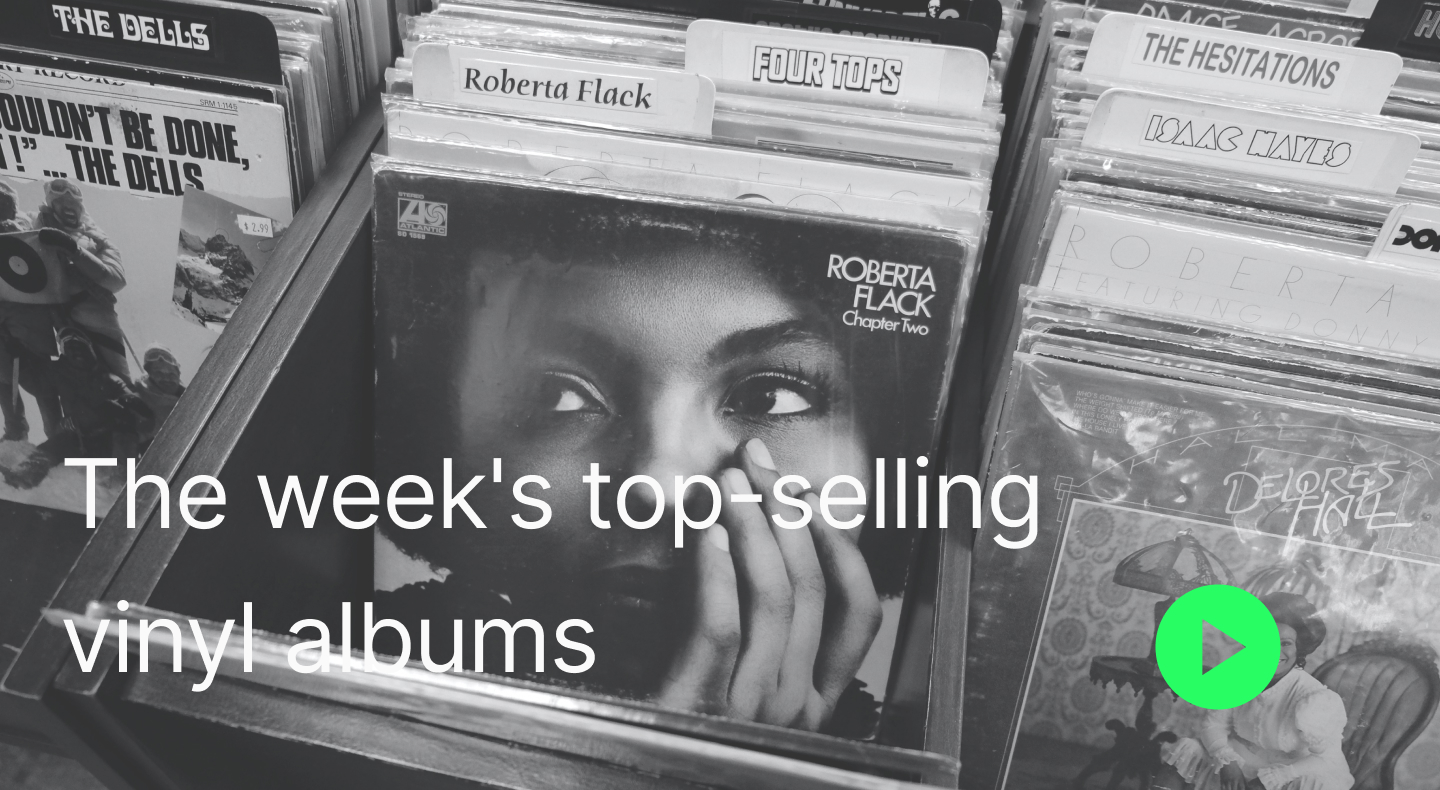
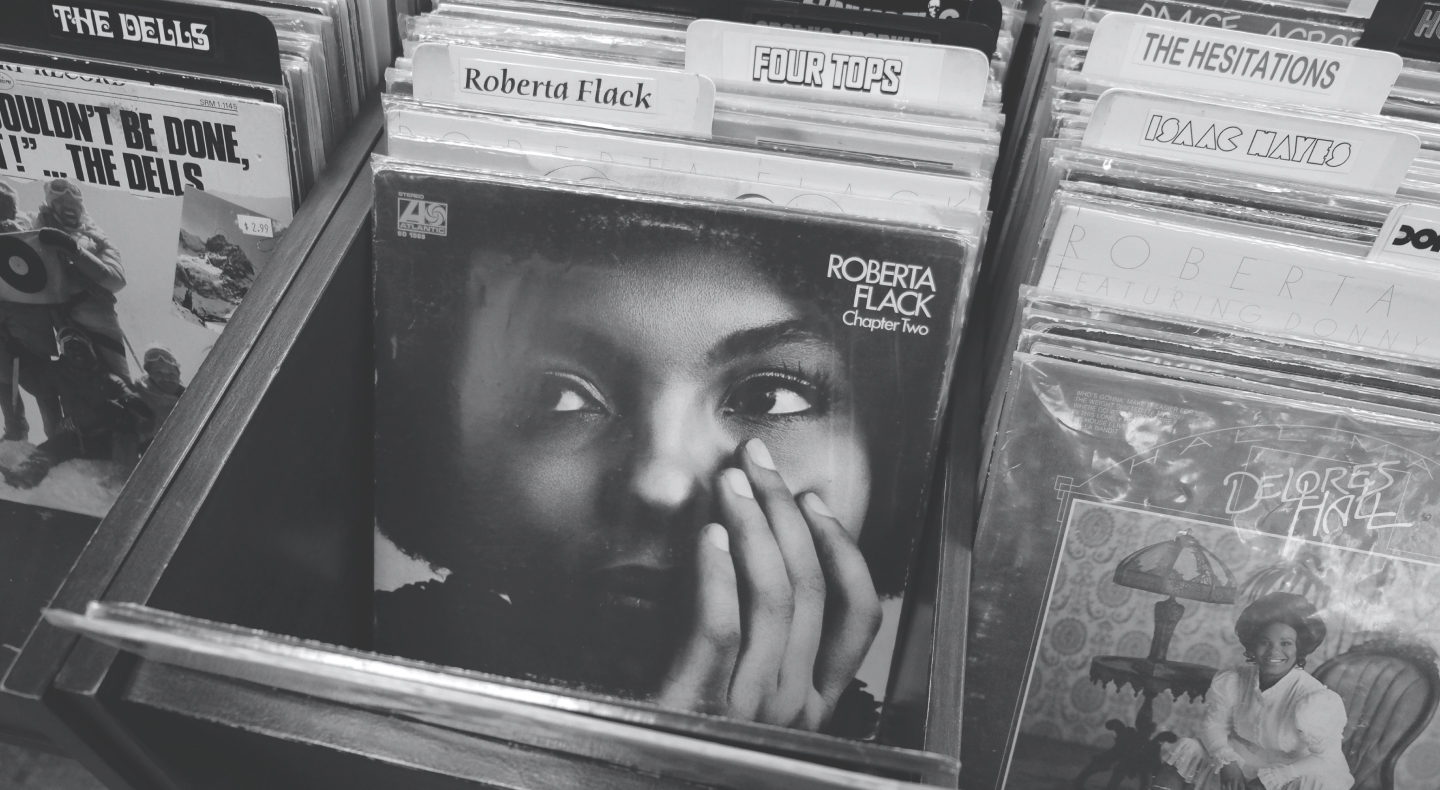
block, footer, footer ligal

Changed region(s): [[0.0312, 0.5772, 0.7188, 0.6987], [0.0312, 0.7595, 0.4375, 0.881], [0.7812, 0.7291, 0.9062, 0.9114]]

diff --git a/index.html b/index.html
@@ -28,7 +28,6 @@
         }
 
     </style>
-
 </head>
 <body>
     <header>
@@ -49,11 +48,11 @@
         </div>
     </header>
 
-    <section class="block-1">
-        <!--<div class="new-releases-text">
-            <h1>New Releases</h1>
-            <h3>Shop All</h3>
-        </div>-зробити заголовок і кнопочку-->
+    <section id="new-releases">
+        <div class="container text-center">
+            <h1>New Releases</h1> 
+        </div>
+        <a href="#!" class="btn-blue">Shop All</a>
     </section>
 
     <marquee class="running-line">
@@ -62,6 +61,86 @@
         <img src="images/thelifer2.png" alt="the-lifer">
     </marquee>
 
+    <!-- <section class="featured-products"> -->
 
+    <section id="services">
+        <div class="services">
+            <div class="service-icons">
+                <img src="images/shipping.svg" alt="free-shipping" class="s-icons" width="70" height="70">
+                <div class="text-start">
+                    <h3>Free shipping</h3>
+                    <p>Free delivery on order over $60.</p>
+                </div>
+            </div>
+
+            <div class="service-icons">
+                <img src="images/question.svg" alt="questions" width="60" height="60">
+                <div class="text-start">
+                    <h3>Questions</h3>
+                    <p><span style="color: #212AFF;"><a href="#" style="color: #212AFF;">Email</a></span> us or <span style="color: #212AFF;"><a href="#" style="color: #212AFF;">call</a></span> and we will help you.</p>
+                </div>
+            </div>
+
+            <div class="service-icons">
+                <img src="images/search.svg" alt="search" width="60" height="60">
+                <div class="text-start">
+                    <h3>Can´t find?</h3>
+                    <p>You have the opportunity to make individual order.</p>
+                </div>
+            </div>
+        </div>
+    </div>
+    </section>
+
+    <!-- page footer  -->
+    <footer>
+        <div class="page-footer">
+            <section class="footer-main">
+                <div class="footer-main-item">
+                    <h3 class="footer-title">Quick Links</h3>
+                    <ul>
+                        <li><a href="#">Search</a></li>
+                        <li><a href="#">Blog</a></li>
+                        <li><a href="#">Shop</a></li>
+                    </ul>
+                </div>
+
+                <div class="footer-main-item">
+                    <h3 class="footer-title">Help and Support</h3>
+                    <ul>
+                        <li><a href="">Delivery & Returns</a></li>
+                        <li><a href="">Contacts</a></li>
+                        <li><a href="">Tracking</a></li>
+                    </ul>
+                </div>
+
+                <div class="footer-main-item">
+                    <h3 class="footer-title">Join In</h3>
+                    <ul>
+                        <li><a href="">Sign Up</a></li>
+                        <li><a href="">Log In</a></li>
+                        <li><a href="">Wishlist</a></li>
+                    </ul>
+                </div>
+
+                <div class="footer-main-item">
+                    <h3 class="footer-title">Follow Us</h3>
+                    <ul class="footer-social-list">
+                        <li><a href="#"><i class="fab fa-facebook"></i></a></li>
+                        <li><a href="#"><i class="fab fa-twitter"></i></a></li>
+                        <li><a href="#"><i class="fa-brands fa-square-instagram"></i></a></li>
+                        <li><a href="#"><i class="fab fa-youtube"></i></a></li>
+                    </ul>
+                </div>
+            </section>
+
+            <section class="footer-ligal">
+                <ul class="footer-ligal-list">
+                    <a href="#">Terms &amp; Conditions</a>
+                    <a href="#">Privacy Policy</a> 
+                    <a href="#">&copy; 2024 Copyright The Lifer Inc.</a>
+                </ul>
+            </section>
+    </footer>
 </body>
 </html>

diff --git a/css/footer.css b/css/footer.css
@@ -1,0 +1,61 @@
+/* footer */
+
+.page-footer {
+    --footer-background-color: #fafafa;
+    --footer-ligal-background-color: #212AFF;
+
+    --footer-a-color: #171b8f;
+    --footer-title-color: #161616;
+    --footer-a-font-size: 1rem;
+    --footer-font-family: 'Inter', sans-serif;
+    
+}
+
+& .footer-main {
+    background-color: var(--footer-background-color);
+    display: flex;
+    flex-wrap: wrap;
+    justify-content: space-evenly;
+    padding: 1.5rem 2rem;
+
+    & .footer-main-item {
+        > ul > li > a {
+            color: var(--footer-a-color);
+            font-family: var(--footer-font-family);
+            font-size: var(--footer-a-font-size);
+            font-weight: 500;
+            text-decoration: none;
+            list-style: none;
+        }
+}
+}
+
+h3 {
+    color: var(--footer-title-color);
+    font-family: var(--footer-font-family);
+    font-weight: 700;
+}
+
+& .footer-social-list {
+    background-color: var(--footer-background-color);
+    display: flex;
+    justify-content: center;
+    text-align: center;
+
+    > li {
+    display: inline-block;
+    > a > i {
+        font-size: 1.25rem;
+        color: var(--footer-a-color);
+        margin-right: 1rem;
+    }
+}
+}
+
+.footer-ligal-list {
+    > a {
+        color: #fafafa;
+        text-decoration: none;
+        margin-right: 2rem;
+    }
+} 

diff --git a/css/common.css b/css/common.css
@@ -5,38 +5,47 @@
     --primary-font-family: 'Syne', sans-serif;
 }
 
-/*header*/
+/*block - new releases*/
 
-#main-page-nav-menu ul {
+#new-releases {
+    background-image: url(/images/cover2.jpg); 
+    background-position: center center;
+    background-size: cover;
+    height: 36.5rem;
+}
+
+.text-center {
+    text-align: center;
+}
+
+.container {
     display: flex;
     justify-content: center;
     align-items: center;
-    list-style: none;
-    padding: 0;
+    height: 100vh;
 }
 
-#main-page-nav-menu ul a {
-    color: var(--main-text-color);
+h1 {
+    font-size: 90px;
+    font-weight: 700;
+    margin-top: 10%;
+}
+
+.btn-blue {
+    color: #fafafa;
+    font-size: 30px;
     text-decoration: none;
-    text-transform: uppercase;
-    margin-right: 2rem;
+
+    background-color:#212AFF;
+    background-size: 100% 300%;
+    padding: 10px 100px;
+    border: 3px midnightblue solid;
+
+    position: absolute;
+    top: 75%;
+    left: 50%;
+    transform: translate(-50%, -50%);
 }
-
-#main-page-nav-menu ul a:hover {
-    color: #28FD64;
-}
-
-
-
-/*block - new releases*/
-
-/*.block-1 {
-    background-image: url(розібратися зі шляхом до картинки); 
-    background-position: center center;
-    background-size: cover;
-    height: 35rem;
-}*/
-
 
 
 /*running line*/

diff --git a/css/nav.css b/css/nav.css
@@ -1,0 +1,22 @@
+/*header*/
+
+#main-page-nav-menu ul {
+    display: flex;
+    justify-content: center;
+    align-items: center;
+    list-style: none;
+    padding: 0;
+}
+
+#main-page-nav-menu ul a {
+    color: var(--main-text-color);
+    text-decoration: none;
+    text-transform: uppercase;
+    margin-right: 2rem;
+}
+
+#main-page-nav-menu ul a:hover {
+    color: #28FD64;
+}
+
+

diff --git a/css/main.css b/css/main.css
@@ -2,6 +2,9 @@
 
 @import url(common.css);
 @import url(https://cdnjs.cloudflare.com/ajax/libs/font-awesome/6.5.1/css/all.min.css);
+@import url(nav.css);
+@import url(app.css);
+@import url(footer.css);
 
 body {
     color: var(--main-text-color);

diff --git a/css/app.css b/css/app.css
@@ -1,0 +1,14 @@
+
+#services {
+    text-align: center;
+}
+
+.service-icons {
+    display: inline-block;
+    margin: 30px;
+    text-align: center;
+}
+
+.text-start {
+    margin: 10px 0;
+}
